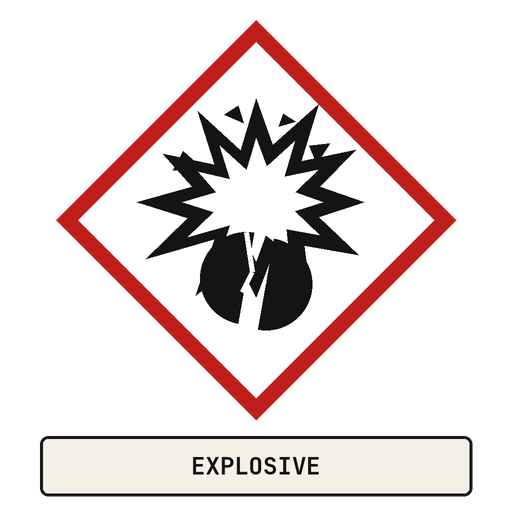
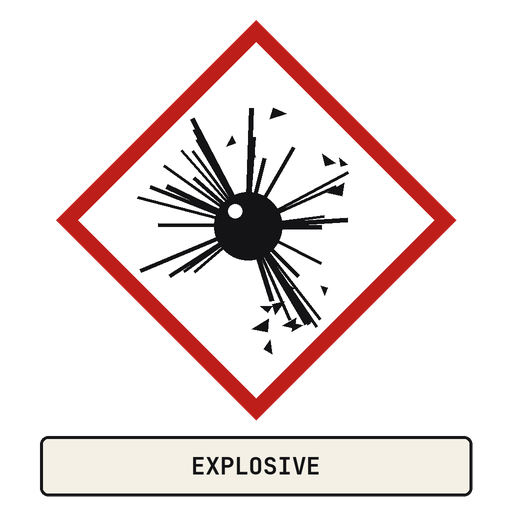
docs: GHS-style explosive pictogram, "may cause deranking" health hazard
Claude-Session: https://claude.ai/code/session_01TPtXe8YEjXWuXNmFgmXabW

Changed region(s): [[0.25, 0.1875, 0.7188, 0.6875]]

diff --git a/docs/vpk-industries.md b/docs/vpk-industries.md
@@ -265,7 +265,7 @@ Facility door sign (1024×512, enamel sign with hazard border), same folder: `no
 
 KD-PX shipment crates, same folder:
 - `kdpx_shipping_label_1024x768.png`: the waybill. From: *[CLASSIFIED]*, to: NONVIS-001 Oasis, contents (DynaRain™ ×22, Splash ×22, smoke), weight *"[?] (not found)"*, carrier *[REDACTED]*, signed by Daniel K., handling boxes (*"Keep dry (ironic)"*, *"Do not lick"*, *"Keep below 0 °K… wait, no."*), barcode `KDPX-404-0001-OASIS`, *"Priority: weather"*.
-- `kdpx_pictogram_<name>_512.png` (transparent, for decals): KD-PX hazard pictograms `kdanium`, `weather` (*contains weather*), `indoor-rain` (*may rain indoors*), `radioactive` (*highly radioactive*), `cryogenic` (*keep below 0 °K*), `explosive`.
+- `kdpx_pictogram_<name>_512.png` (transparent, for decals): KD-PX hazard pictograms `kdanium`, `weather` (*contains weather*), `health-hazard` (*may cause deranking*), `radioactive` (*highly radioactive*), `cryogenic` (*keep below 0 °K*), `explosive`.
 
 Emitter warning sign (1024×1024), same folder: `kd-wx-003_emitter_warning_1024x1024.png`, for the side emitter module of S.T.R.A.T.O.S.: *"KD-PX emitter · active emission"*, *"Do not inhale the weather."*, *"Do not block the outlet with your hand, your face or your coffee."*, *"The smoke is not a malfunction."*, minimum distance 2 m.
 
